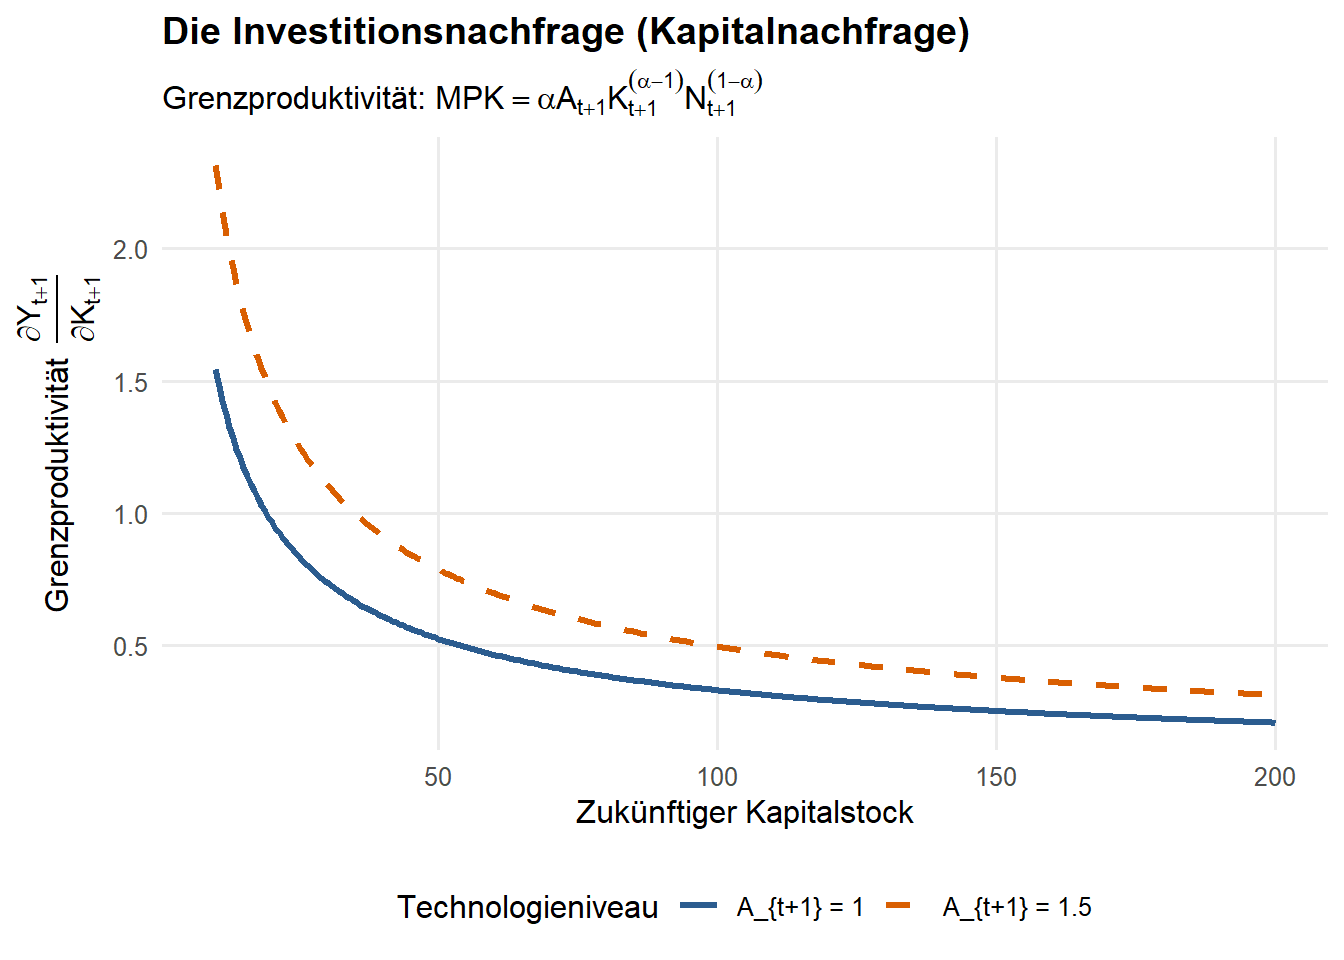
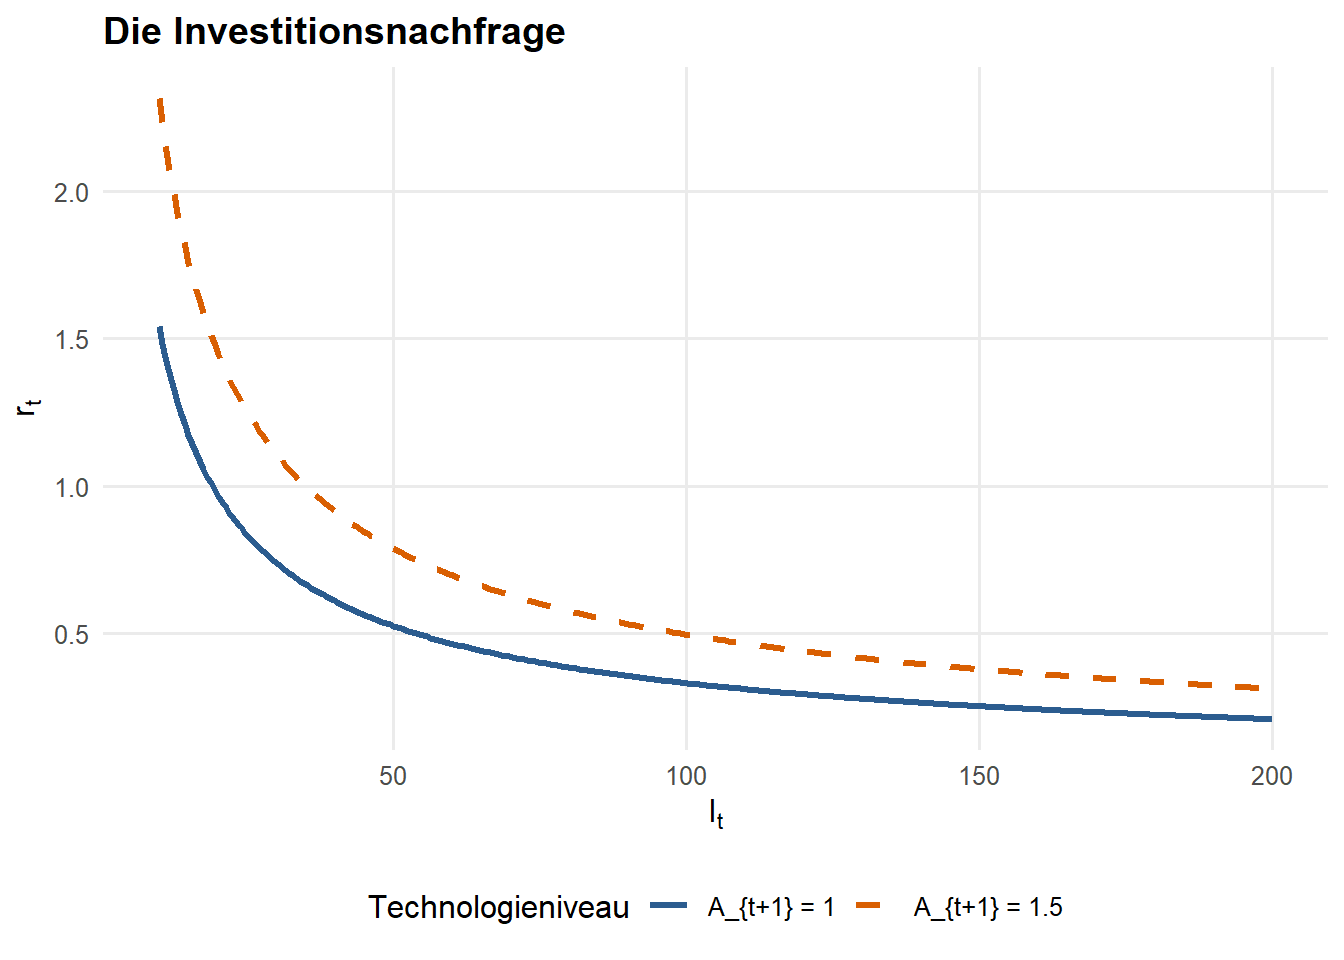
Produktion

diff --git a/docs/Mikromakro.html b/docs/Mikromakro.html
@@ -2013,10 +2013,17 @@ I_t &amp;= B_t^I
 <p><span class="math display">\[\frac{\partial V_t}{\partial N_t} = A_t F_N(K_t, N_t) - w_t \stackrel{!}{=}0\]</span> <span class="math display">\[\iff w_t = A_t F_N(K_t, N_t)\]</span></p>
 <p><span class="math display">\[\frac{\partial V_t}{\partial K_{t+1}} = \frac{1}{1 + r_t} \left[ A_{t+1} F_K(K_{t+1}, N_{t+1}) + (1 - \delta) - (1 + r_t) \right] \stackrel{!}{=}0\]</span></p>
 <p><span class="math display">\[\iff 1 + r_t = A_{t+1} F_K(K_{t+1}, N_{t+1}) + (1 - \delta)\]</span></p>
+<p><span class="math display">\[\iff r_t = A_{t+1} F_K(K_{t+1}, N_{t+1}) - \delta\]</span> bzw</p>
+<p><span class="math display">\[\iff r_t + \delta = A_{t+1} F_K(K_{t+1}, N_{t+1})\]</span></p>
 </section>
 </section>
 <section id="die-arbeitsnachfrage" class="level3" data-number="4.2.5">
 <h3 data-number="4.2.5" class="anchored" data-anchor-id="die-arbeitsnachfrage"><span class="header-section-number">4.2.5</span> Die Arbeitsnachfrage</h3>
+<ul>
+<li><p>Der Faktor Arbeit wird nachgefragt, solang die Grenzproduktivität der Arbeit gößer oder gleich dem Lohnsatz <span class="math inline">\(w_t\)</span> ist.</p></li>
+<li><p>Damit ist die Grenzproduktiviätsfunktion die Nachfragefunktion nach Arbeit.</p></li>
+<li><p>Für eine Cobb Douglas Produktionsfunktion <span class="math inline">\(F(K_t, N_t) = K_t^{\alpha} N_t^{1-\alpha}\)</span> heißt das <span class="math display">\[\frac{\partial Y_t}{\partial N_t} = A_t (1 - \alpha) K_t^{\alpha} N_t^{-\alpha} = (1 - \alpha) A_t \left(\frac{K_t}{N_t}\right)^{\alpha} \stackrel{!}{=}w_t\]</span></p></li>
+</ul>
 <div class="cell">
 <details class="code-fold">
 <summary>Code</summary>
@@ -2072,6 +2079,10 @@ I_t &amp;= B_t^I
 </section>
 <section id="die-investitionsnachfrage" class="level3" data-number="4.2.6">
 <h3 data-number="4.2.6" class="anchored" data-anchor-id="die-investitionsnachfrage"><span class="header-section-number">4.2.6</span> Die Investitionsnachfrage</h3>
+<ul>
+<li><p>Es wird solange investiert, bis die Grenzproduktivität des (zusätzlichen) Kapitals ausreicht, um die Zinsen zu zahlen und die Abschreibungen auszugleichen.</p></li>
+<li><p>Für eine Cobb-Douglas Produktionsfunktion heißt das <span class="math display">\[\frac{\partial Y_t}{\partial K_t} = A_t \alpha K_t^{\alpha - 1} N_t^{1 - \alpha} = \alpha A_t \left(\frac{N_t}{K_t}\right)^{1 - \alpha} \stackrel{!}{=}r+\delta\]</span></p></li>
+</ul>
 <div class="cell">
 <details class="code-fold">
 <summary>Code</summary>
@@ -2102,10 +2113,10 @@ I_t &amp;= B_t^I
 <span id="cb15-25"><a href="#cb15-25" aria-hidden="true" tabindex="-1"></a>  <span class="fu">scale_color_manual</span>(<span class="at">values =</span> <span class="fu">c</span>(<span class="st">"A_{t+1} = 1"</span> <span class="ot">=</span> <span class="st">"#2b5c8f"</span>, <span class="st">"A_{t+1} = 1.5"</span> <span class="ot">=</span> <span class="st">"#d95f02"</span>)) <span class="sc">+</span></span>
 <span id="cb15-26"><a href="#cb15-26" aria-hidden="true" tabindex="-1"></a>  <span class="fu">scale_linetype_manual</span>(<span class="at">values =</span> <span class="fu">c</span>(<span class="st">"solid"</span>, <span class="st">"dashed"</span>)) <span class="sc">+</span></span>
 <span id="cb15-27"><a href="#cb15-27" aria-hidden="true" tabindex="-1"></a>  <span class="fu">labs</span>(</span>
-<span id="cb15-28"><a href="#cb15-28" aria-hidden="true" tabindex="-1"></a>    <span class="at">title =</span> <span class="st">"Die Investitionsnachfrage (Kapitalnachfrage)"</span>,</span>
-<span id="cb15-29"><a href="#cb15-29" aria-hidden="true" tabindex="-1"></a>    <span class="at">subtitle =</span> <span class="fu">expression</span>(<span class="fu">paste</span>(<span class="st">"Grenzproduktivität: "</span>, MPK <span class="sc">==</span> alpha <span class="sc">*</span> A[t<span class="sc">+</span><span class="dv">1</span>] <span class="sc">*</span> K[t<span class="sc">+</span><span class="dv">1</span>]<span class="sc">^</span>(alpha<span class="dv">-1</span>) <span class="sc">*</span> N[t<span class="sc">+</span><span class="dv">1</span>]<span class="sc">^</span>(<span class="dv">1</span><span class="sc">-</span>alpha))),</span>
-<span id="cb15-30"><a href="#cb15-30" aria-hidden="true" tabindex="-1"></a>    <span class="at">x =</span> <span class="fu">expression</span>(Zukünftiger<span class="sc">~</span>Kapitalstock),</span>
-<span id="cb15-31"><a href="#cb15-31" aria-hidden="true" tabindex="-1"></a>    <span class="at">y =</span> <span class="fu">expression</span>(Grenzproduktivität<span class="sc">~</span><span class="er">~</span><span class="fu">frac</span>(partialdiff<span class="sc">*</span>Y[t<span class="sc">+</span><span class="dv">1</span>], partialdiff<span class="sc">*</span>K[t<span class="sc">+</span><span class="dv">1</span>])),</span>
+<span id="cb15-28"><a href="#cb15-28" aria-hidden="true" tabindex="-1"></a>    <span class="at">title =</span> <span class="st">"Die Investitionsnachfrage"</span>,</span>
+<span id="cb15-29"><a href="#cb15-29" aria-hidden="true" tabindex="-1"></a><span class="co">#    subtitle = expression(paste("Grenzproduktivität: ", MPK == alpha * A[t+1] * K[t+1]^(alpha-1) * N[t+1]^(1-alpha))),</span></span>
+<span id="cb15-30"><a href="#cb15-30" aria-hidden="true" tabindex="-1"></a>    <span class="at">x =</span> <span class="fu">expression</span>(I[t]),</span>
+<span id="cb15-31"><a href="#cb15-31" aria-hidden="true" tabindex="-1"></a>    <span class="at">y =</span> <span class="fu">expression</span>(r[t]),</span>
 <span id="cb15-32"><a href="#cb15-32" aria-hidden="true" tabindex="-1"></a>    <span class="at">color =</span> <span class="st">"Technologieniveau"</span>,</span>
 <span id="cb15-33"><a href="#cb15-33" aria-hidden="true" tabindex="-1"></a>    <span class="at">linetype =</span> <span class="st">"Technologieniveau"</span></span>
 <span id="cb15-34"><a href="#cb15-34" aria-hidden="true" tabindex="-1"></a>  ) <span class="sc">+</span></span>
